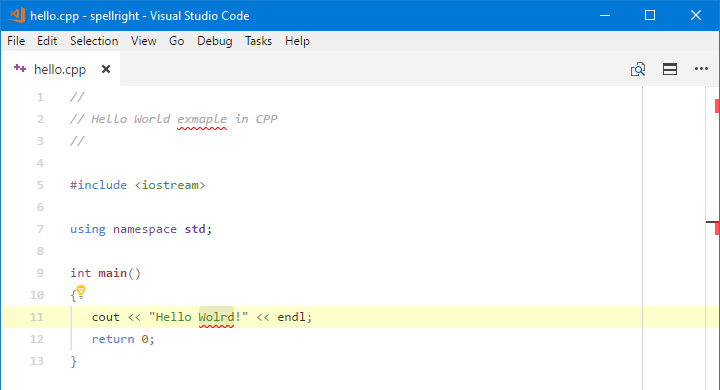
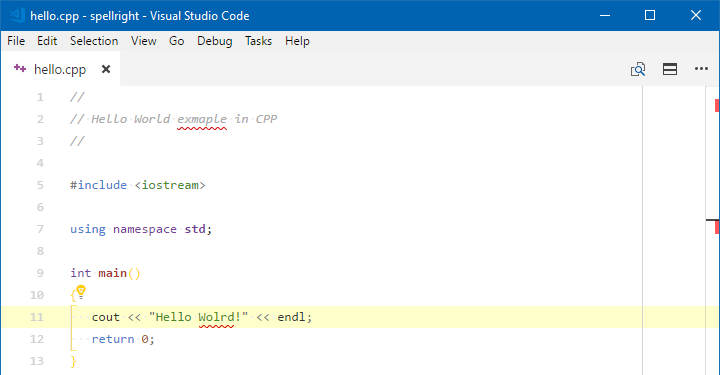
Screenshots updates

diff --git a/CHANGELOG.md b/CHANGELOG.md
@@ -1,7 +1,8 @@
 # Change Log
 
-## **2.3.2** released on 1st May 2018
+## **2.3.2** released on 2nd May 2018
 
+- **Change:** Screenshots updated.
 - **Change:** Some solution to possessive apostrophe ([#150](https://github.com/bartosz-antosik/vscode-spellright/issues/150)).
 - **Fix:** Regression with Hunspell backend introduced with fixing of ([#144](https://github.com/bartosz-antosik/vscode-spellright/issues/144)) also resolves ([#149](https://github.com/bartosz-antosik/vscode-spellright/issues/149)) .
 

diff --git a/README.md b/README.md
@@ -56,7 +56,9 @@ Spell Right stores words considered as spelled correctly and not existing in the
 
 Spelling of **plain text**/**markdown**/**LaTeX** documents:
 
-![screenshot](media/screenshot-default.png)
+![screenshot](media/screenshot-default-markdown.png)
+
+![screenshot](media/screenshot-default-latex.png)
 
 ### Source Code & Markup Documents
 
